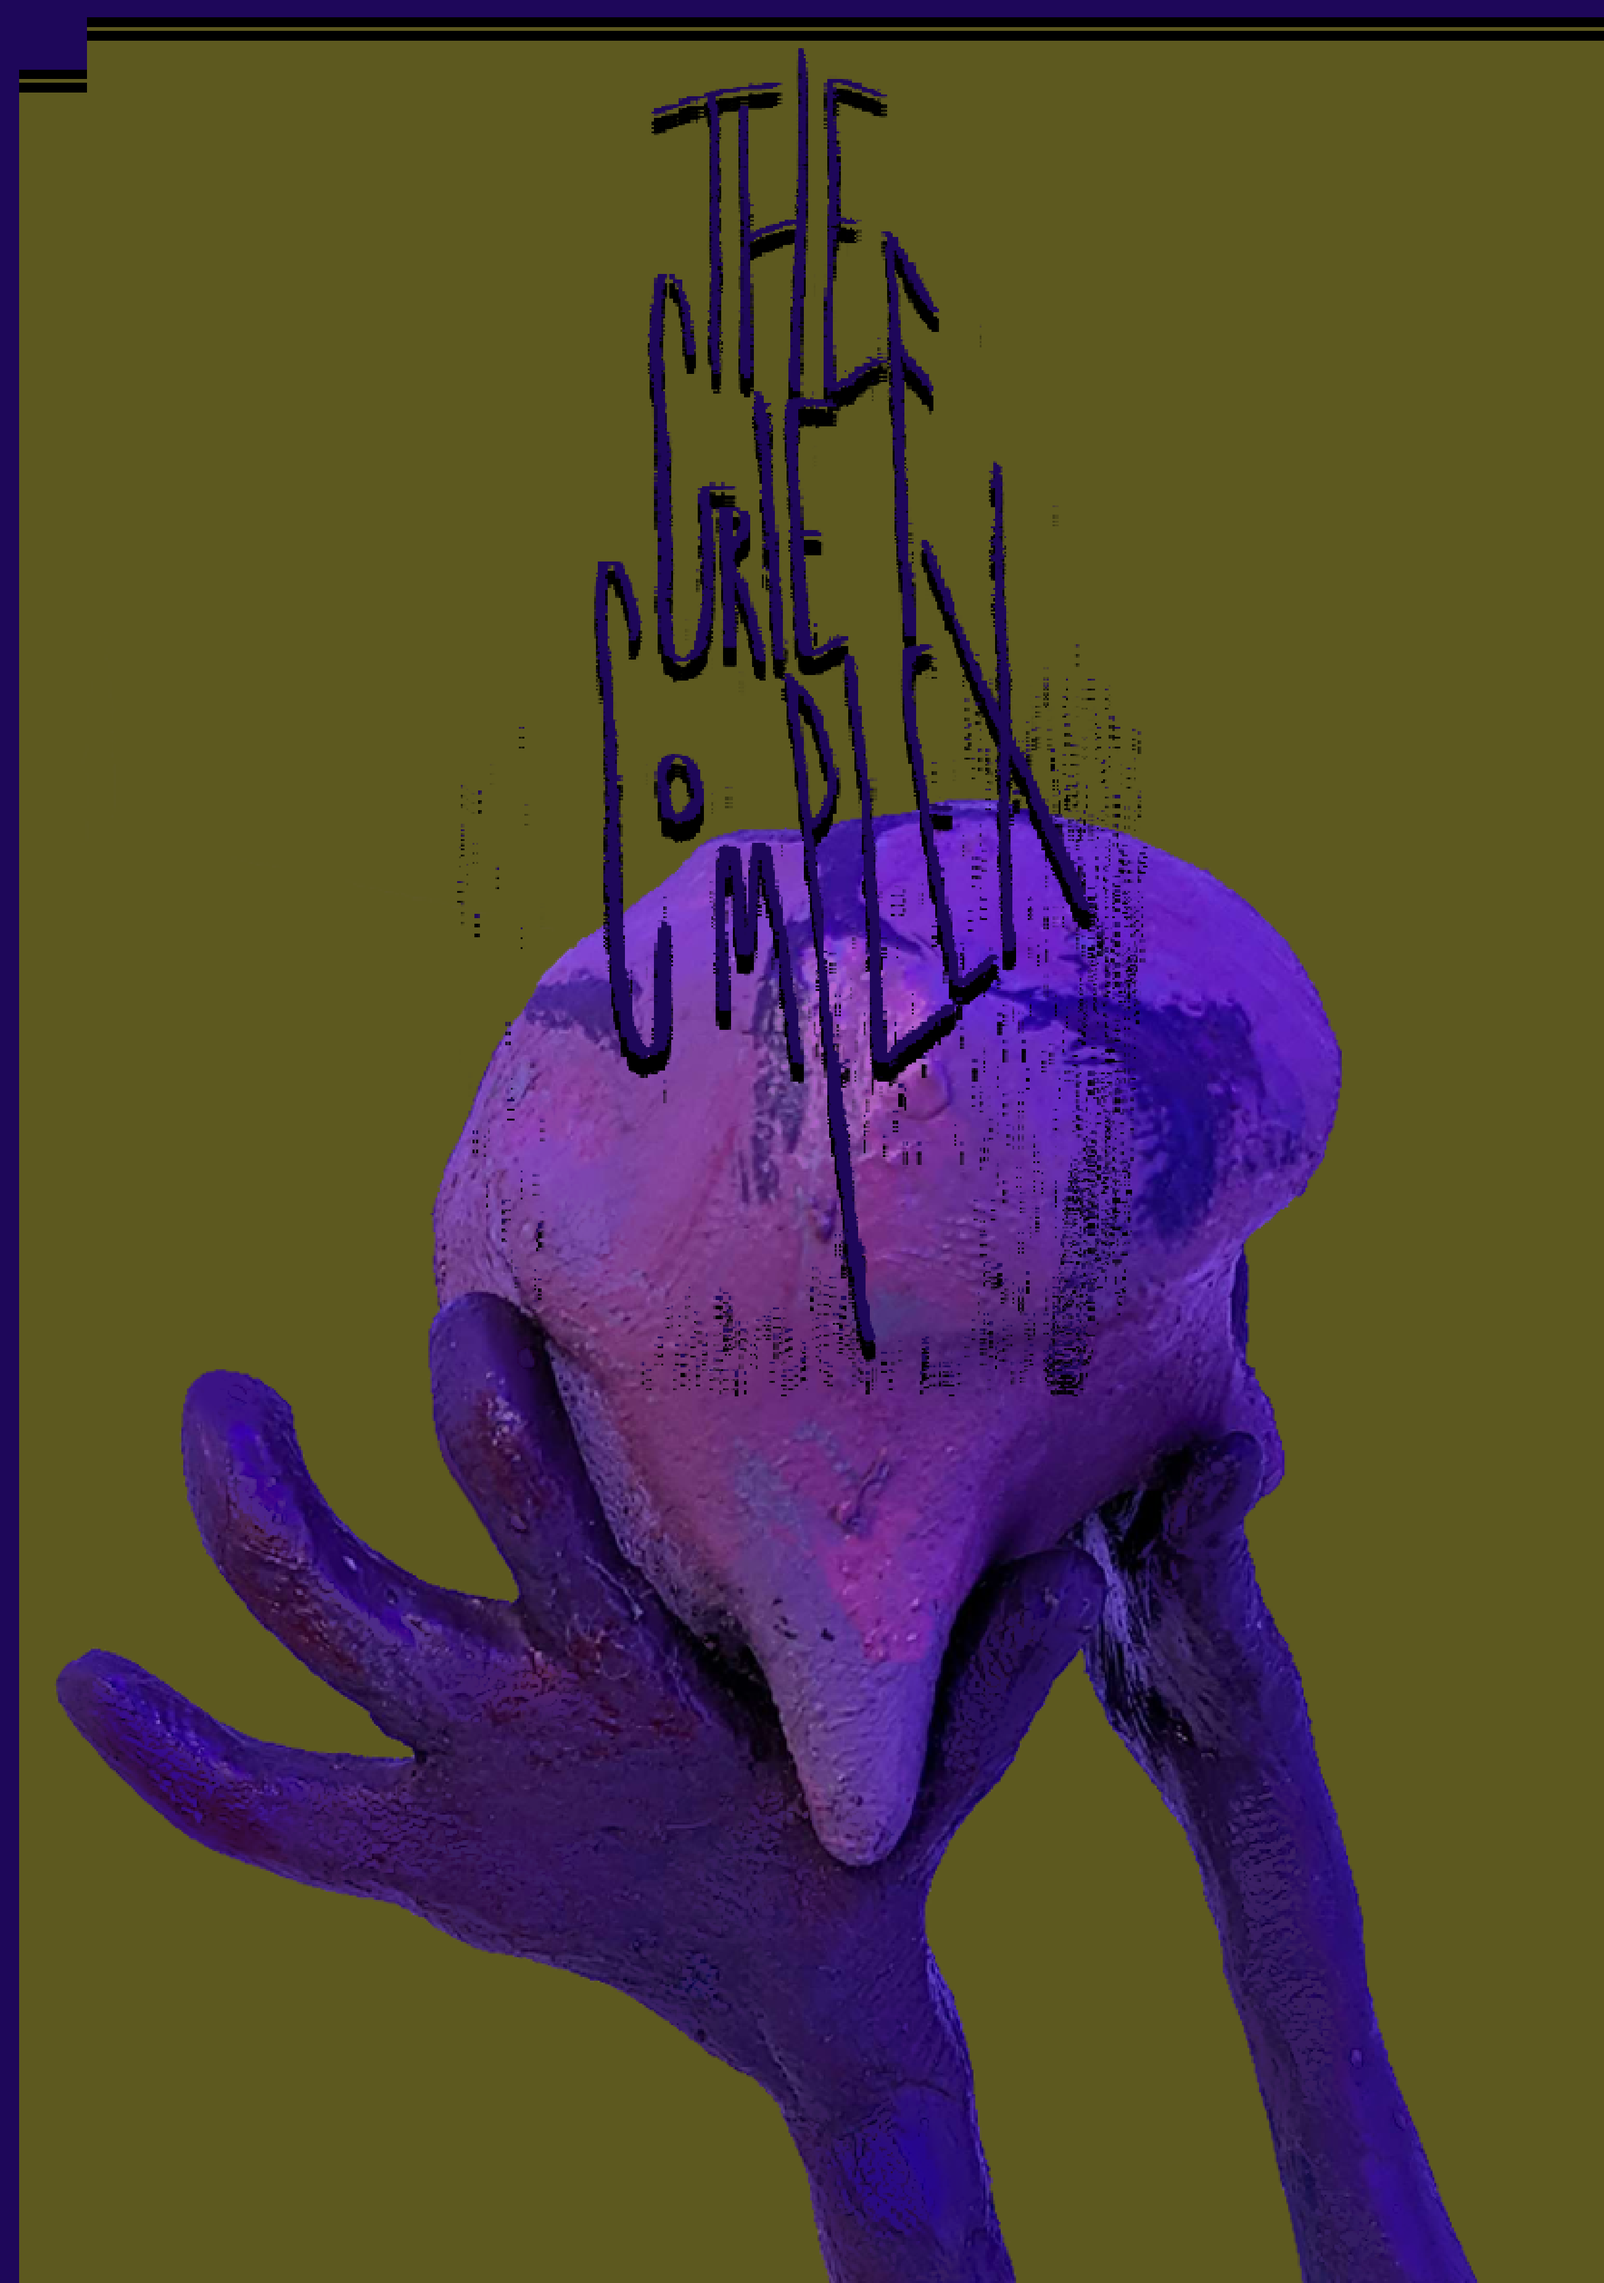
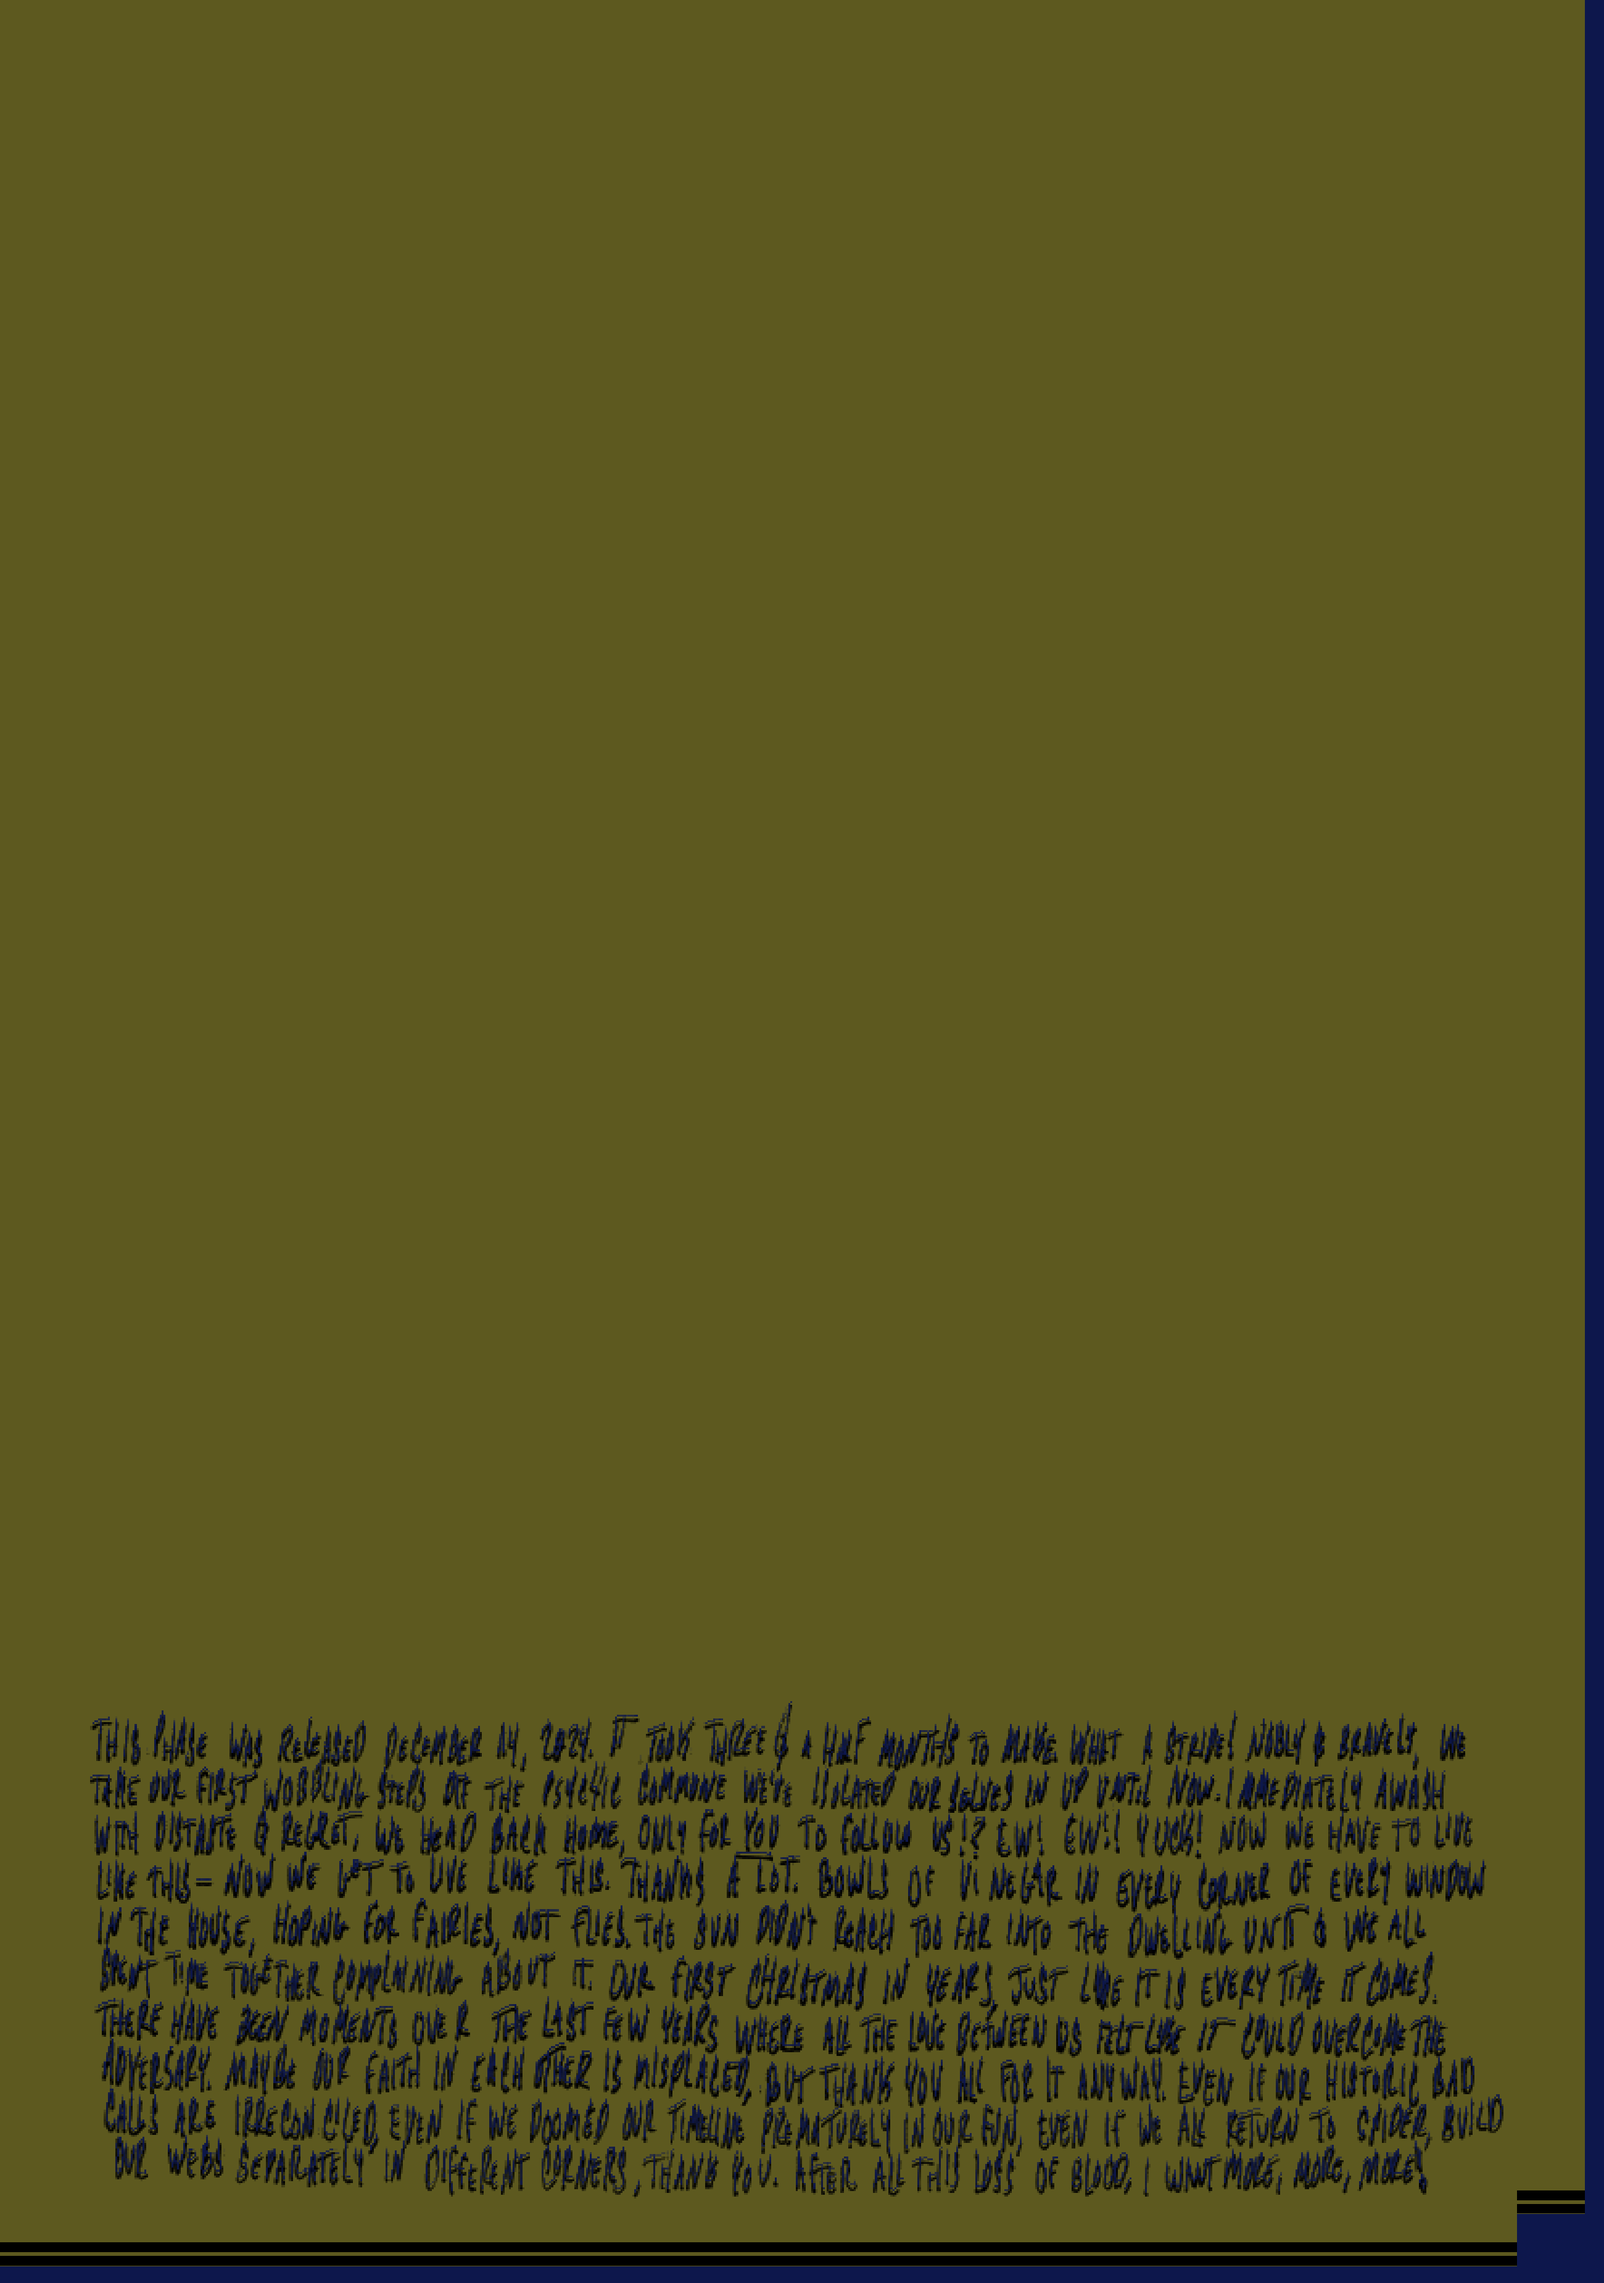
cosmetic online phase page updates

diff --git a/grief-complex/phase-2.html b/grief-complex/phase-2.html
@@ -47,13 +47,17 @@
     }
 
     body {
-      background-color: #fff8f1;
+      background-color: #ffd2a1;
       font-family: sans-serif;
       margin: 0;
     }
 
+    header h1 {
+      color: #1a40ff;
+    }
+
     header, nav {
-      background-color: #ffffff33;
+      background-color: #ff704065;
       padding: 0.5em 1em;
     }
     nav {
@@ -80,7 +84,7 @@
     
     .phase-title {
       font-weight: bold;
-      color: #0048FF;
+      color: #1a40ff;
       font-size: 20px;
       margin-bottom: 0.25em;
       text-align: center;
@@ -145,7 +149,8 @@
   const params = new URLSearchParams(window.location.search);
 
   const phase = params.get("phase") || "4";
-  let page = parseInt(params.get("page")) || 1;
+  let page = parseInt(params.get("page"));
+  if (isNaN(page)) page = 0;
   const maxPages = 56;
 
   document.getElementById("next").onclick = () => {
@@ -156,7 +161,7 @@
   };
 
   document.getElementById("prev").onclick = () => {
-    if (page > 1) {
+    if (page > 0) {
       page--;
       updateURL();
     }
@@ -171,10 +176,10 @@
   function populateDropdown(max) {
     selectEl.innerHTML = "";
 
-    for (let i = 1; i <= max; i++) {
+    for (let i = 0; i <= max; i++) {
       const option = document.createElement("option");
       option.value = i;
-      option.textContent = `Page ${i}`;
+      option.textContent = `Page ${i + 1}`;
       if (i === page) option.selected = true;
       selectEl.appendChild(option);
     }

diff --git a/grief-complex/phase-3.html b/grief-complex/phase-3.html
@@ -47,13 +47,17 @@
     }
 
     body {
-      background-color: #fff8f1;
+      background-color: #27070e;
       font-family: sans-serif;
       margin: 0;
     }
 
+    header h1 {
+      color: #cc9757;
+    }
+
     header, nav {
-      background-color: #ffffff33;
+      background-color: #ffffff11;
       padding: 0.5em 1em;
     }
     nav {
@@ -62,7 +66,7 @@
     }
 
     nav a {
-      color: #0048FF;
+      color: #cc9757;
       font-weight: bold;
       /* margin-right: 1em; */
       text-decoration: none;
@@ -80,7 +84,7 @@
     
     .phase-title {
       font-weight: bold;
-      color: #0048FF;
+      color: #ab7e47;
       font-size: 20px;
       margin-bottom: 0.25em;
       text-align: center;

diff --git a/grief-complex/phase-1.html b/grief-complex/phase-1.html
@@ -47,13 +47,17 @@
     }
 
     body {
-      background-color: #fff8f1;
+      background-color: #ff5d26;
       font-family: sans-serif;
       margin: 0;
     }
+    
+    header h1 {
+      color: #1623d3;
+    }
 
     header, nav {
-      background-color: #ffffff33;
+      background-color: #dbc92633;
       padding: 0.5em 1em;
     }
     nav {
@@ -62,7 +66,7 @@
     }
 
     nav a {
-      color: #0048FF;
+      color: #1623d3;
       font-weight: bold;
       /* margin-right: 1em; */
       text-decoration: none;
